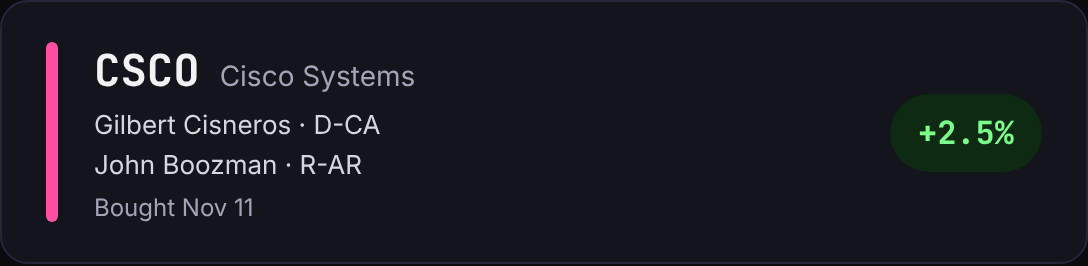
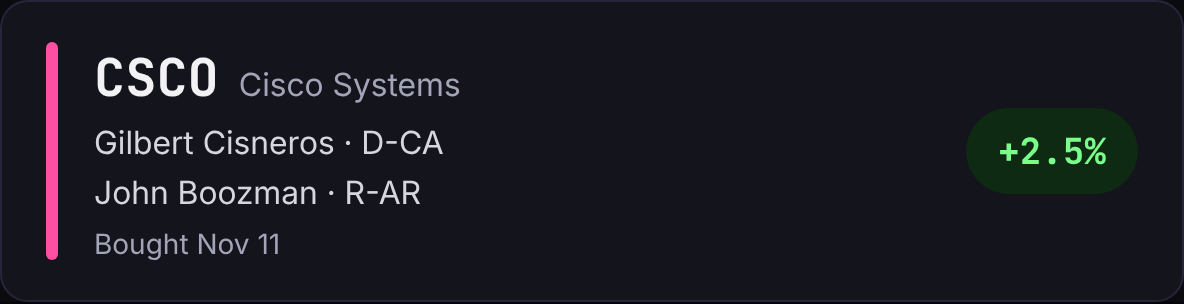
Newsletter sample v2: phone-sized images and spacing

Changed region(s): [[0.0312, 0.1203, 0.4062, 0.8722], [0.8438, 0.4511, 0.9375, 0.5414]]

diff --git a/tools/newsletter_sample.html b/tools/newsletter_sample.html
@@ -18,19 +18,19 @@
 <tr><td><img src="IMG/stats.png" width="640" alt="4 new buy picks. 34 member filings. Picks +2.5% this week, S&amp;P +3.3%." style="width:100%;max-width:640px"></td></tr>
 
 <!-- 01 -->
-<tr><td style="padding:40px 48px 32px">
-  <img src="IMG/t1.png" width="544" alt="01 The Drop: this week's buys" style="width:100%;max-width:544px">
-  <img src="IMG/card0.png" width="544" alt="BHE Benchmark Electronics, up 4.7%" style="width:100%;max-width:544px;margin-top:20px">
-  <img src="IMG/card1.png" width="544" alt="CSCO Cisco Systems, up 2.5%" style="width:100%;max-width:544px;margin-top:12px">
-  <img src="IMG/card2.png" width="544" alt="EIX Edison International, up 0.2%" style="width:100%;max-width:544px;margin-top:12px">
-  <img src="IMG/card3.png" width="544" alt="APP AppLovin, up 8.5%" style="width:100%;max-width:544px;margin-top:12px">
+<tr><td style="padding:36px 24px 32px">
+  <img src="IMG/t1.png" width="592" alt="01 The Drop: this week's buys" style="width:100%;max-width:592px">
+  <img src="IMG/card0.png" width="592" alt="BHE Benchmark Electronics, up 4.7%" style="width:100%;max-width:592px;margin-top:20px">
+  <img src="IMG/card1.png" width="592" alt="CSCO Cisco Systems, up 2.5%" style="width:100%;max-width:592px;margin-top:12px">
+  <img src="IMG/card2.png" width="592" alt="EIX Edison International, up 0.2%" style="width:100%;max-width:592px;margin-top:12px">
+  <img src="IMG/card3.png" width="592" alt="APP AppLovin, up 8.5%" style="width:100%;max-width:592px;margin-top:12px">
   <div style="font-size:14px;color:#A4A4B8;margin-top:16px">Since start: picks <b style="color:#F2F2F5">+1.9%</b>, S&amp;P −1.4%</div>
   <table role="presentation" cellpadding="0" cellspacing="0" style="margin-top:20px"><tr><td style="background:#C6FF3D;border-radius:999px"><a href="https://capitolcapital.cc" style="display:inline-block;padding:13px 22px;font-weight:bold;font-size:15px;color:#0A0A0F;text-decoration:none">Open the app →</a></td></tr></table>
 </td></tr>
 
 <!-- 02 -->
-<tr><td style="padding:36px 48px;background:#0E0E15">
-  <img src="IMG/t2.png" width="544" alt="02 On the Floor: notable trades" style="width:100%;max-width:544px">
+<tr><td style="padding:36px 24px;background:#0E0E15">
+  <img src="IMG/t2.png" width="592" alt="02 On the Floor: notable trades" style="width:100%;max-width:592px">
   <table role="presentation" width="100%" cellpadding="0" cellspacing="0" style="margin-top:12px">
     <tr><td width="52" valign="top" style="padding:14px 0;border-bottom:1px solid #1F1F2E;font-size:12px;font-weight:bold;letter-spacing:1px;color:#FF8A8A">SELL</td>
       <td style="padding:14px 0;border-bottom:1px solid #1F1F2E;font-size:15px;line-height:1.4"><b>WBD</b> <span style="color:#A4A4B8">· 4 members sold within 30 days</span></td></tr>
@@ -42,8 +42,8 @@
 </td></tr>
 
 <!-- 03 -->
-<tr><td style="padding:36px 48px">
-  <img src="IMG/t3.png" width="544" alt="03 The Bassline: markets" style="width:100%;max-width:544px">
+<tr><td style="padding:36px 24px">
+  <img src="IMG/t3.png" width="592" alt="03 The Bassline: markets" style="width:100%;max-width:592px">
   <table role="presentation" width="100%" cellpadding="0" cellspacing="0" style="margin-top:12px;font-size:15px;line-height:1.4">
     <tr><td style="padding:12px 0;border-bottom:1px solid #1F1F2E"><span style="color:#C6FF3D">▲</span>&nbsp; Chips ran hot: TSM +15%, ADI +13%</td></tr>
     <tr><td style="padding:12px 0;border-bottom:1px solid #1F1F2E"><span style="color:#C6FF3D">▲</span>&nbsp; Aerospace climbed: Moog +11%, Eaton +10%</td></tr>
@@ -53,8 +53,8 @@
 </td></tr>
 
 <!-- 04 -->
-<tr><td style="padding:36px 48px;background:#0E0E15">
-  <img src="IMG/t4.png" width="544" alt="04 Studio Notes: app updates" style="width:100%;max-width:544px">
+<tr><td style="padding:36px 24px;background:#0E0E15">
+  <img src="IMG/t4.png" width="592" alt="04 Studio Notes: app updates" style="width:100%;max-width:592px">
   <div style="font-size:15px;line-height:1.5;margin-top:16px">New <b>Blog</b> in More. First post: how the Buy and Sell buttons work.</div>
   <table role="presentation" width="100%" cellpadding="0" cellspacing="0" style="margin-top:16px;background:#14141C;border:1px solid #26263A;border-radius:14px"><tr>
     <td style="padding:16px 20px"><a href="https://capitolcapital.cc" style="font-size:15px;font-weight:bold;color:#F2F2F5;text-decoration:none">Read it in the app</a></td>
@@ -63,8 +63,8 @@
 </td></tr>
 
 <!-- FOOTER -->
-<tr><td style="padding:32px 48px 40px;background:#07070B">
-  <img src="IMG/foot.png" width="544" alt="C)C. See you next week." style="width:100%;max-width:544px">
+<tr><td style="padding:32px 24px 40px;background:#07070B">
+  <img src="IMG/foot.png" width="592" alt="C)C. See you next week." style="width:100%;max-width:592px">
   <div style="font-size:12px;line-height:1.6;color:#8C8CA3;margin-top:14px">For Capitol Capital account holders only. Please don't forward or share it; see the <a href="https://capitolcapital.cc" style="color:#C6FF3D">Terms of Use</a>. Not financial advice.</div>
   <div style="font-size:12px;line-height:1.6;color:#8C8CA3;margin-top:8px"><a href="https://capitolcapital.cc" style="color:#C6FF3D">Turn the newsletter off</a> in Settings › Notifications.</div>
 </td></tr>
